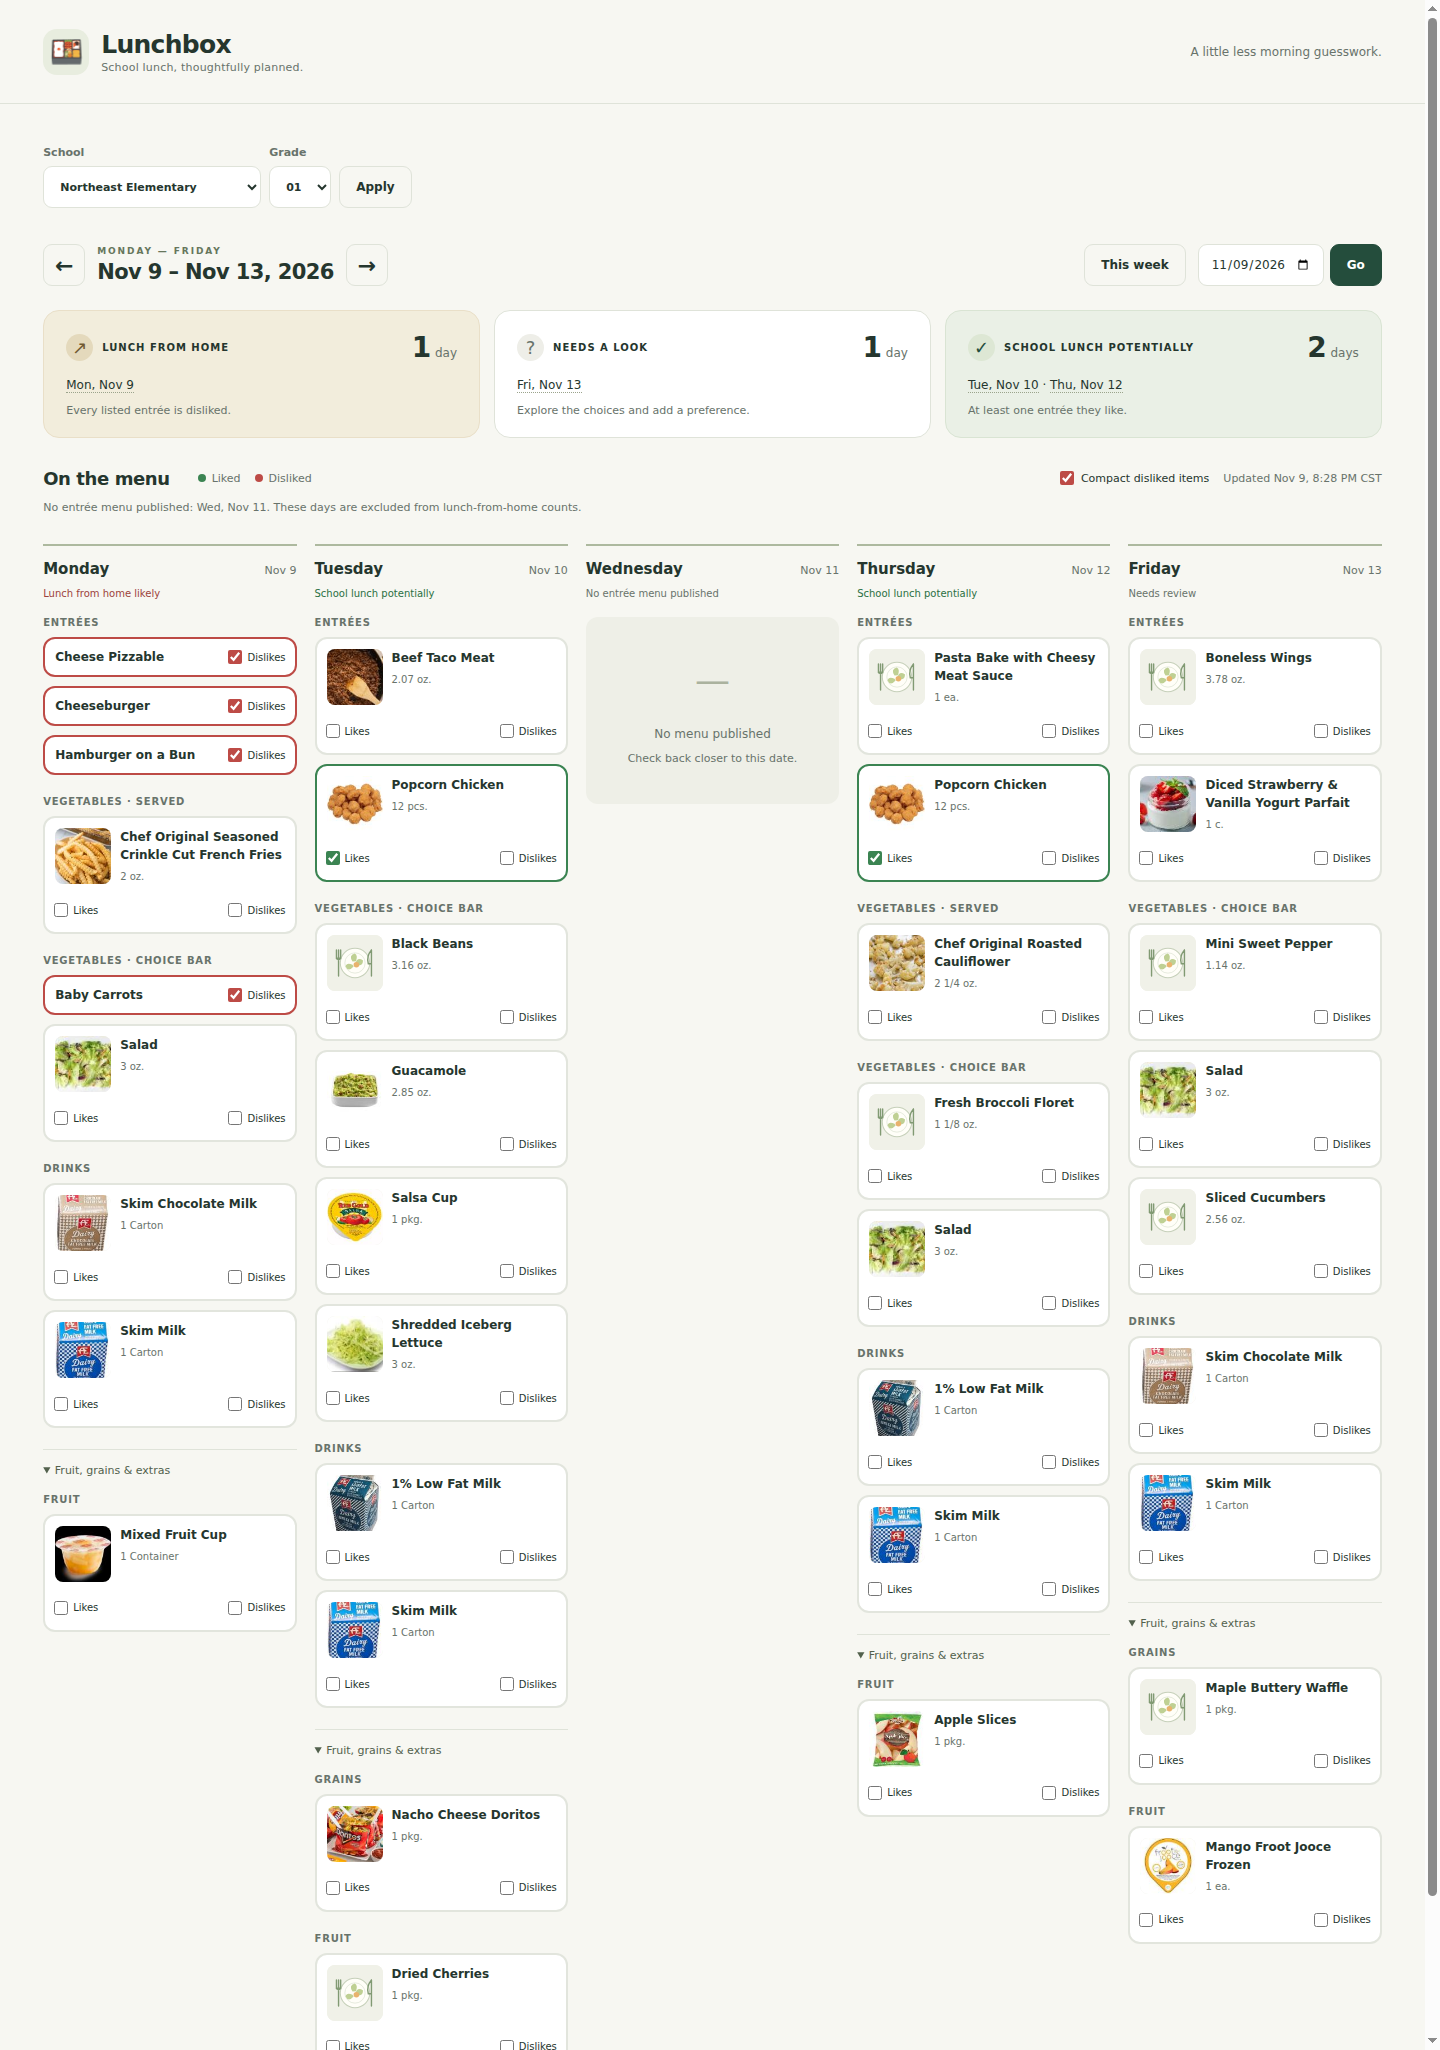
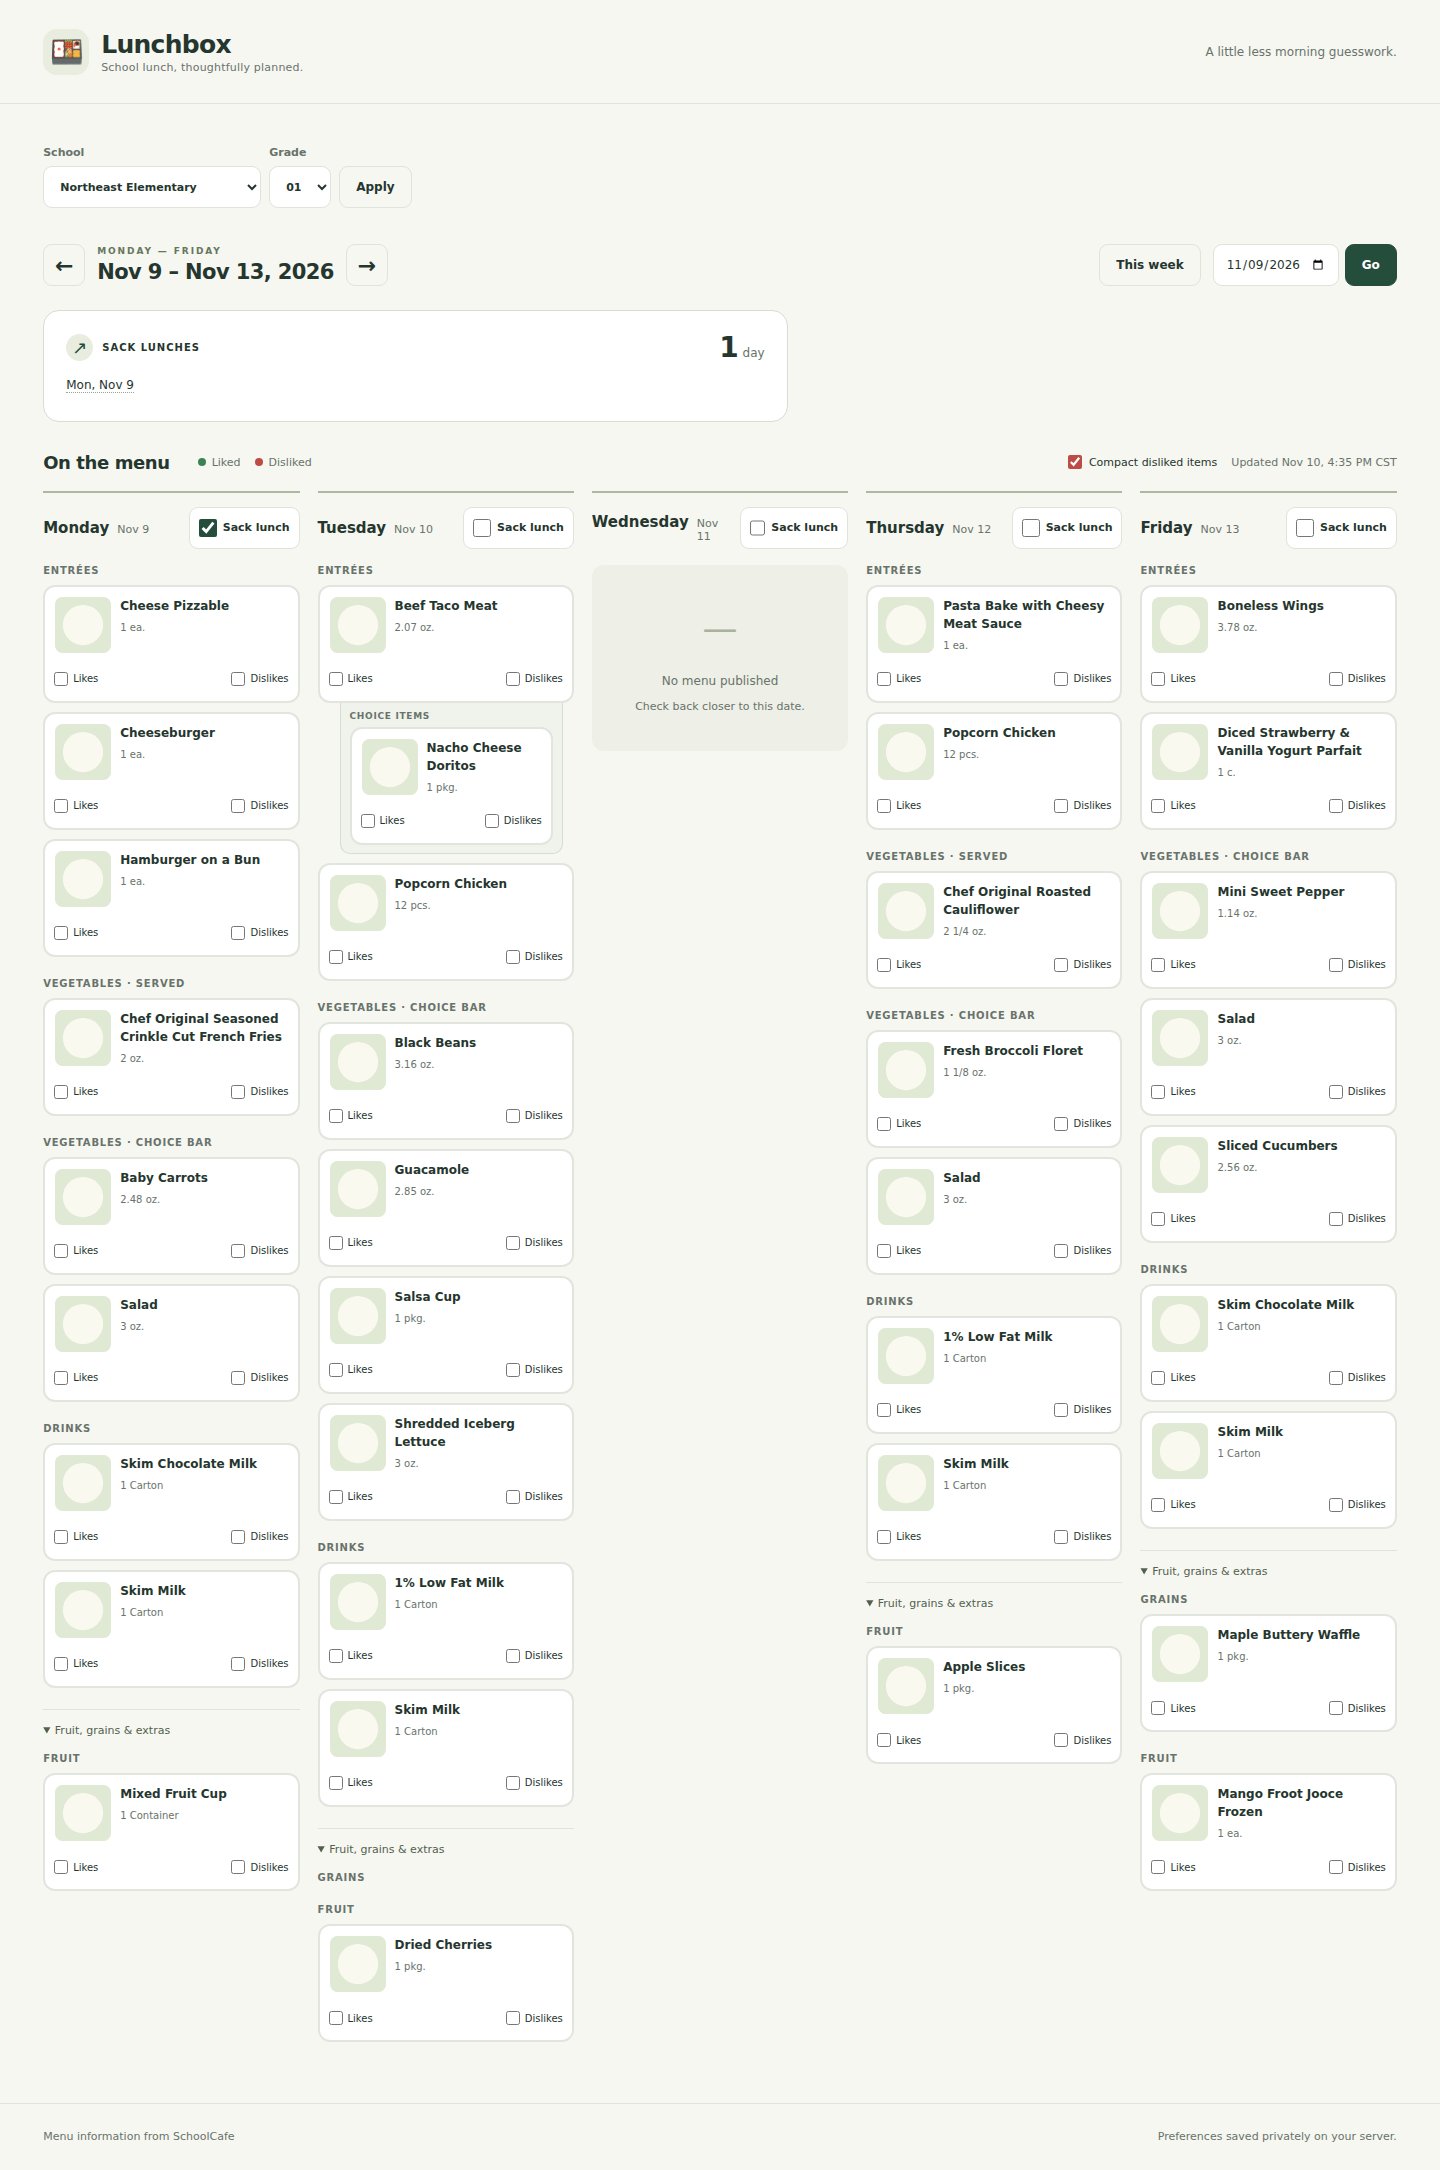
docs: refresh screenshots for lunch-planning updates

diff --git a/tests/e2e/test_menu.py b/tests/e2e/test_menu.py
@@ -68,6 +68,46 @@ def test_served_together_choice_is_indented_under_parent_entree(page, menu_serve
     expect(parent.locator(".related-items")).to_be_visible()
 
 
+def test_capture_lunch_planning_feature_screenshots(page, menu_server, monkeypatch):
+    payload = json.loads((SAMPLES / "weekly-2026-11-09.json").read_text())
+    tuesday = payload["11/10/2026"]
+    entree = next(
+        row for row in tuesday["ENTREES"] if row["MenuItemDescription"] == "Beef Taco Meat"
+    )
+    choice = next(
+        row for row in tuesday["GRAINS"] if row["MenuItemDescription"] == "Nacho Cheese Doritos"
+    )
+    payload["_served_together"] = {"11/10/2026": [[entree["PEMenuItemId"], choice["PEMenuItemId"]]]}
+    monkeypatch.setattr(services, "fetch_provider", lambda *args: payload)
+    services.save_sack_lunch(
+        services.Selection.parse(
+            {"week": "2026-11-09", "school": "NORTHEAST_ELEMENTARY", "grade": "01"}
+        ),
+        date(2026, 11, 9),
+        True,
+    )
+    screenshots = Path("docs/screenshots")
+    screenshots.mkdir(parents=True, exist_ok=True)
+
+    page.set_viewport_size({"width": 1440, "height": 1000})
+    page.goto(menu_server)
+    expect(
+        page.get_by_role("checkbox", name="Sack lunch for Monday, November 9", exact=True)
+    ).to_be_checked()
+    expect(page.locator(".sack-summary")).to_contain_text("Mon, Nov 9")
+    linked_item = page.locator("#day-2026-11-10 .menu-item-entry").filter(has_text="Beef Taco Meat")
+    expect(linked_item.locator(".related-items")).to_contain_text("Nacho Cheese Doritos")
+    page.screenshot(path=str(screenshots / "weekly-menu-desktop.png"), full_page=True)
+
+    page.set_viewport_size({"width": 390, "height": 1280})
+    page.goto(menu_server)
+    expect(
+        page.get_by_role("checkbox", name="Sack lunch for Monday, November 9", exact=True)
+    ).to_be_checked()
+    page.screenshot(path=str(screenshots / "mobile-menu.png"))
+    linked_item.screenshot(path=str(screenshots / "served-together-choice-mobile.png"))
+
+
 def test_sack_lunch_summary_and_new_browser_context(page, browser, menu_server):
     page.goto(menu_server)
     tuesday = page.get_by_role("checkbox", name="Sack lunch for Tuesday, November 10", exact=True)

diff --git a/README.md b/README.md
@@ -1,6 +1,6 @@
 # Lunchbox · SchoolCafe family menu
 
-A Dockerized Django application for Monday–Friday school menus, food photos, allergen and nutrition details, and a lunch-from-home summary based on one child's SQLite-backed preferences.
+A Dockerized Django application for Monday–Friday school menus, food photos, allergen and nutrition details, persistent food preferences, and explicit per-day sack-lunch planning in SQLite.
 
 ## Run with Docker
 
@@ -30,13 +30,15 @@ Menu data is cached. A source outage can use a clearly labeled saved menu for up
 
 ## Screenshots
 
-These representative views use captured SchoolCafe sample data and synthetic preferences in an isolated demo database.
+These representative views use captured SchoolCafe sample data and synthetic preferences in an isolated demo database. The first two show the new explicit sack-lunch confirmation; the focused mobile view shows a served-together choice nested under its entrée.
 
-![Desktop weekly menu with summary cards and compact disliked foods](docs/screenshots/weekly-menu-desktop.png)
+![Desktop weekly menu with a confirmed sack lunch and a linked choice under its parent entrée](docs/screenshots/weekly-menu-desktop.png)
+
+![Responsive mobile menu with a confirmed sack lunch](docs/screenshots/mobile-menu.png)
+
+![Beef Taco Meat with Nacho Cheese Doritos nested beneath it](docs/screenshots/served-together-choice-mobile.png)
 
 ![Food details dialog with nutrition, allergens, and ingredients](docs/screenshots/food-details.png)
-
-![Responsive mobile weekly menu](docs/screenshots/mobile-menu.png)
 
 The `schoolcafe_data` Docker volume stores `/data/schoolcafe.sqlite3` and its WAL files. The non-root runtime uses Gunicorn and locally served static assets. Readiness is available at `/health/ready`. See [deployment, backups, updates, and household access](docs/DEPLOYMENT.md).
 
